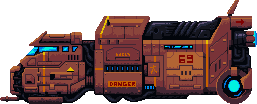
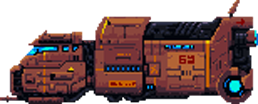
style: redrawn vehicles sprites via Photoshop for consistent pixel art style

Changed region(s): [[0.0, 0.0, 1.0, 1.0], [0.6226, 0.2885, 0.6537, 0.3173]]

diff --git a/models/flying-vehicles.class.js b/models/flying-vehicles.class.js
@@ -47,7 +47,7 @@ class Police extends FlyingVehicle {
 
 class Truck extends FlyingVehicle {
     constructor(x, y, speed, direction, world, parallaxFactor) {
-        super('assets/img/04_vehicles/truck.png', x, y, speed, 120, 40, direction, world, parallaxFactor);
+        super('assets/img/04_vehicles/truck.png', x, y, speed, 120, 50, direction, world, parallaxFactor);
     }
 }
 
